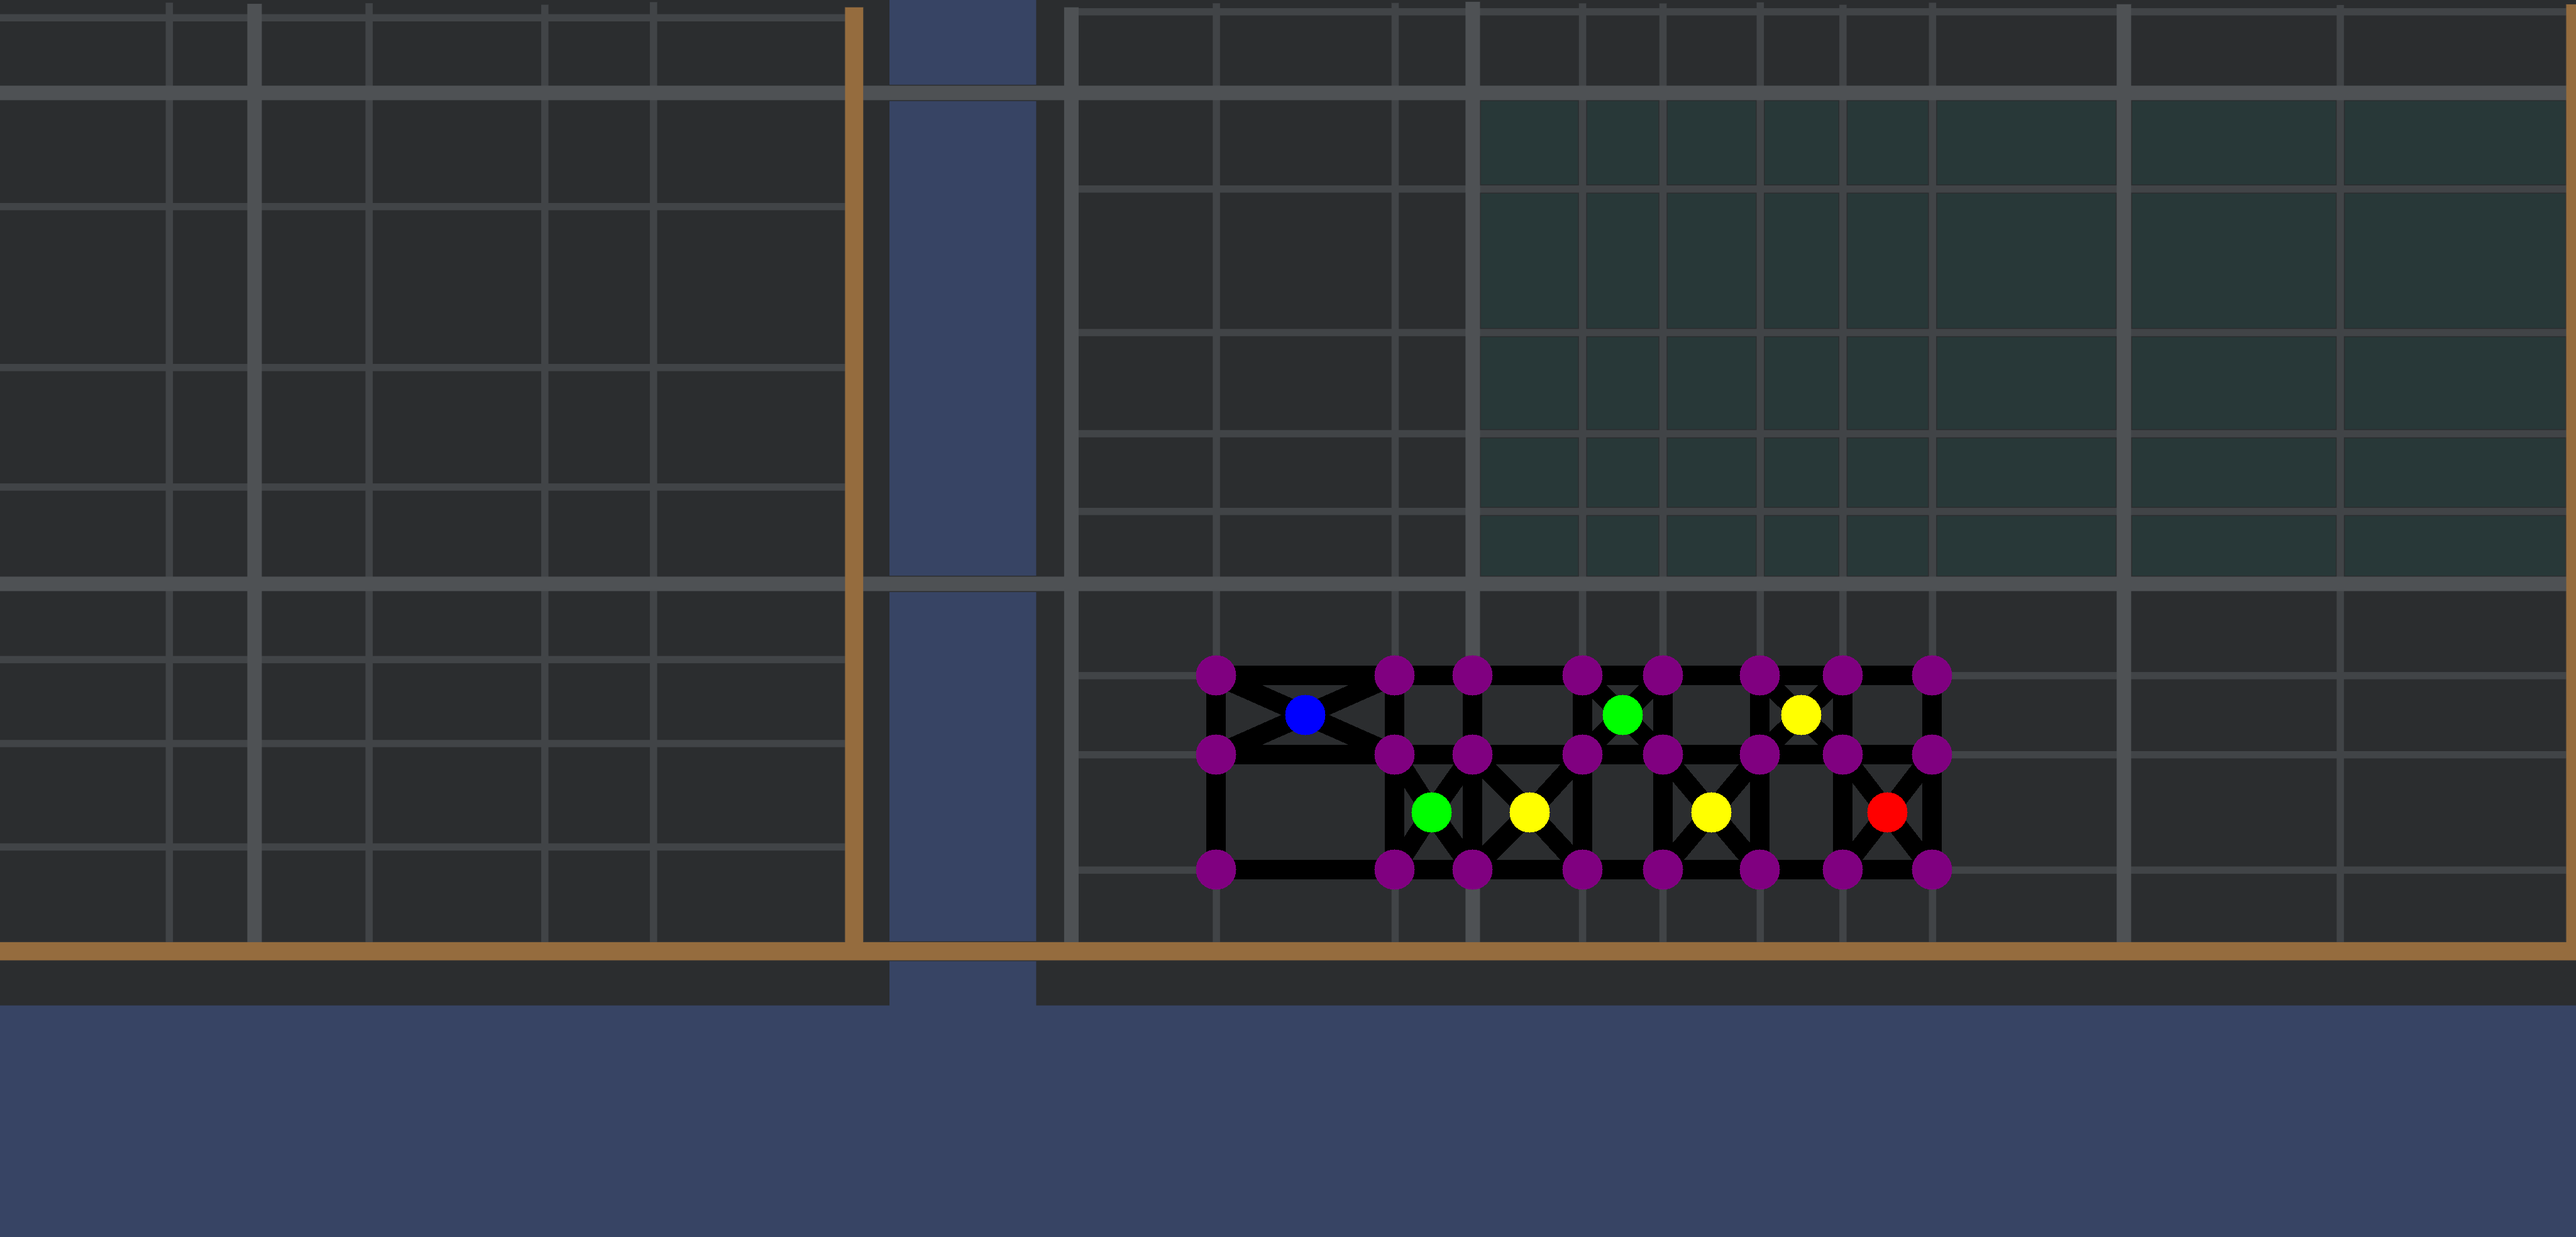
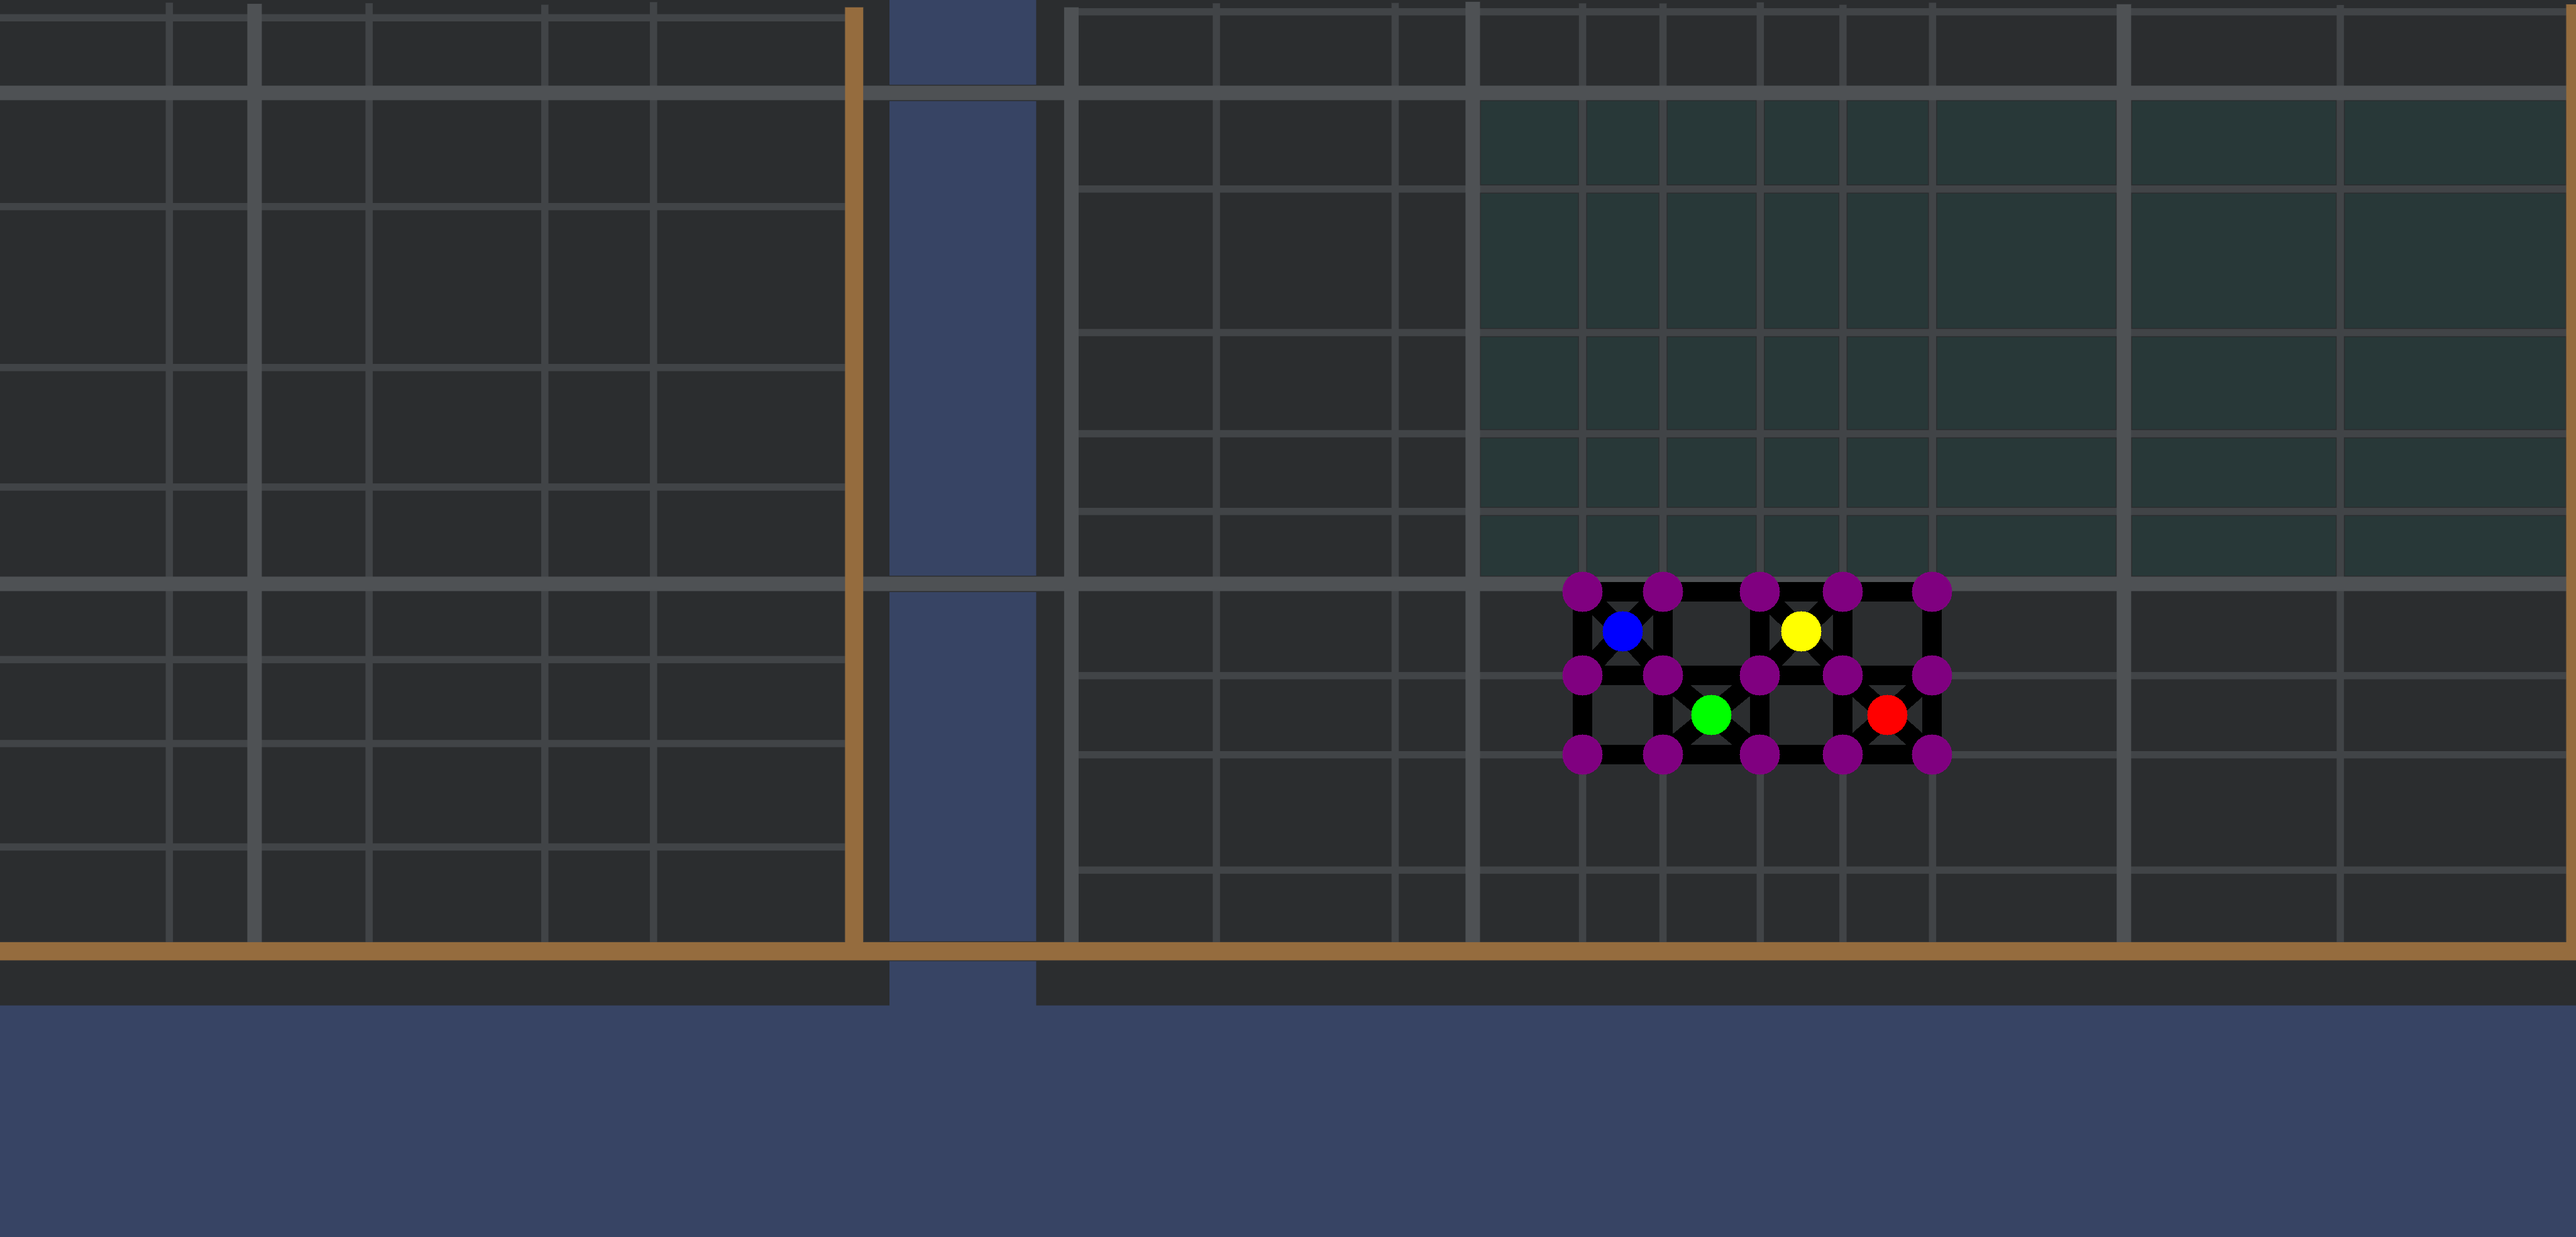
Reduçã do mapa

Changed region(s): [[0.4685, 0.4649, 0.7809, 0.7129]]

diff --git a/graph/selecionar_cluster.py b/graph/selecionar_cluster.py
@@ -183,7 +183,7 @@ def listar_retangulos(
 # ===========================
 # Atribuição de tipos (farthest-first)
 # ===========================
-def atribuir_tipos(construcoes_roi, N_V, N_E, N_F, N_C, dist_min=50):
+def atribuir_tipos(construcoes_roi, N_V, N_E, N_F, N_C, dist_min=0):
     pts = construcoes_roi[:]
     selecionados = []
 
@@ -537,7 +537,7 @@ def criar_sistema_logistico(
 # Exemplo de uso direto
 # ---------------------------
 if __name__ == "__main__":
-    N_VERTIPORT, N_ESTACAO, N_FORNECEDOR, N_CLIENTE = 1, 1, 2, 3
+    N_VERTIPORT, N_ESTACAO, N_FORNECEDOR, N_CLIENTE = 1, 1, 1, 1
 
     res = criar_sistema_logistico(
         N_VERTIPORT,
